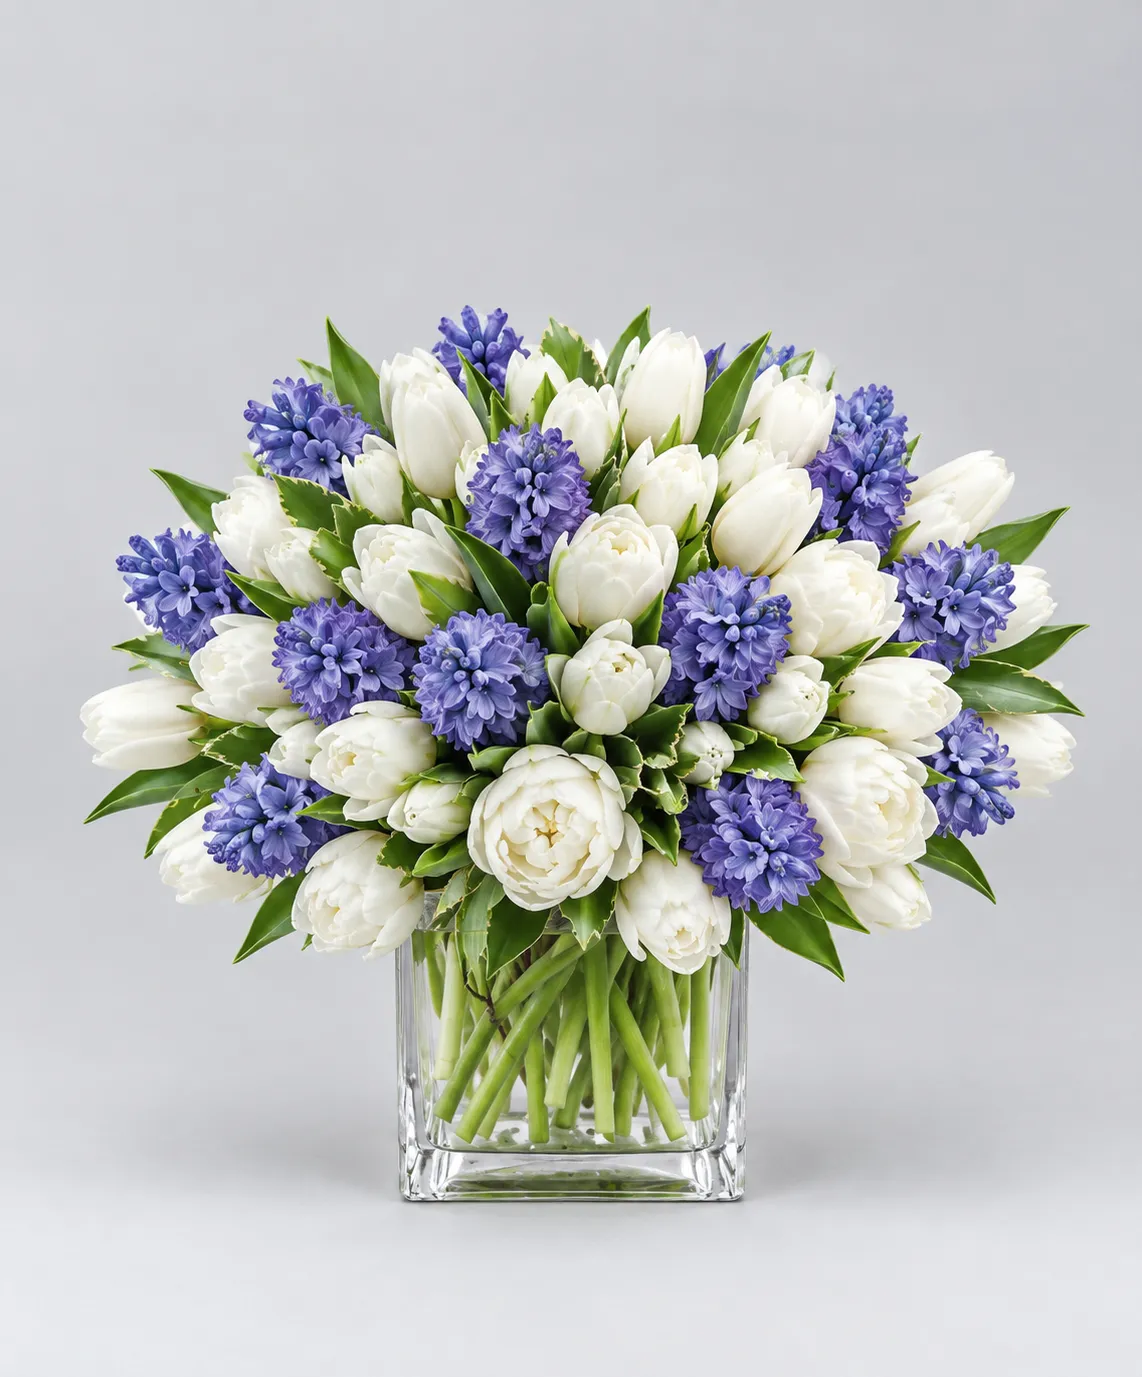
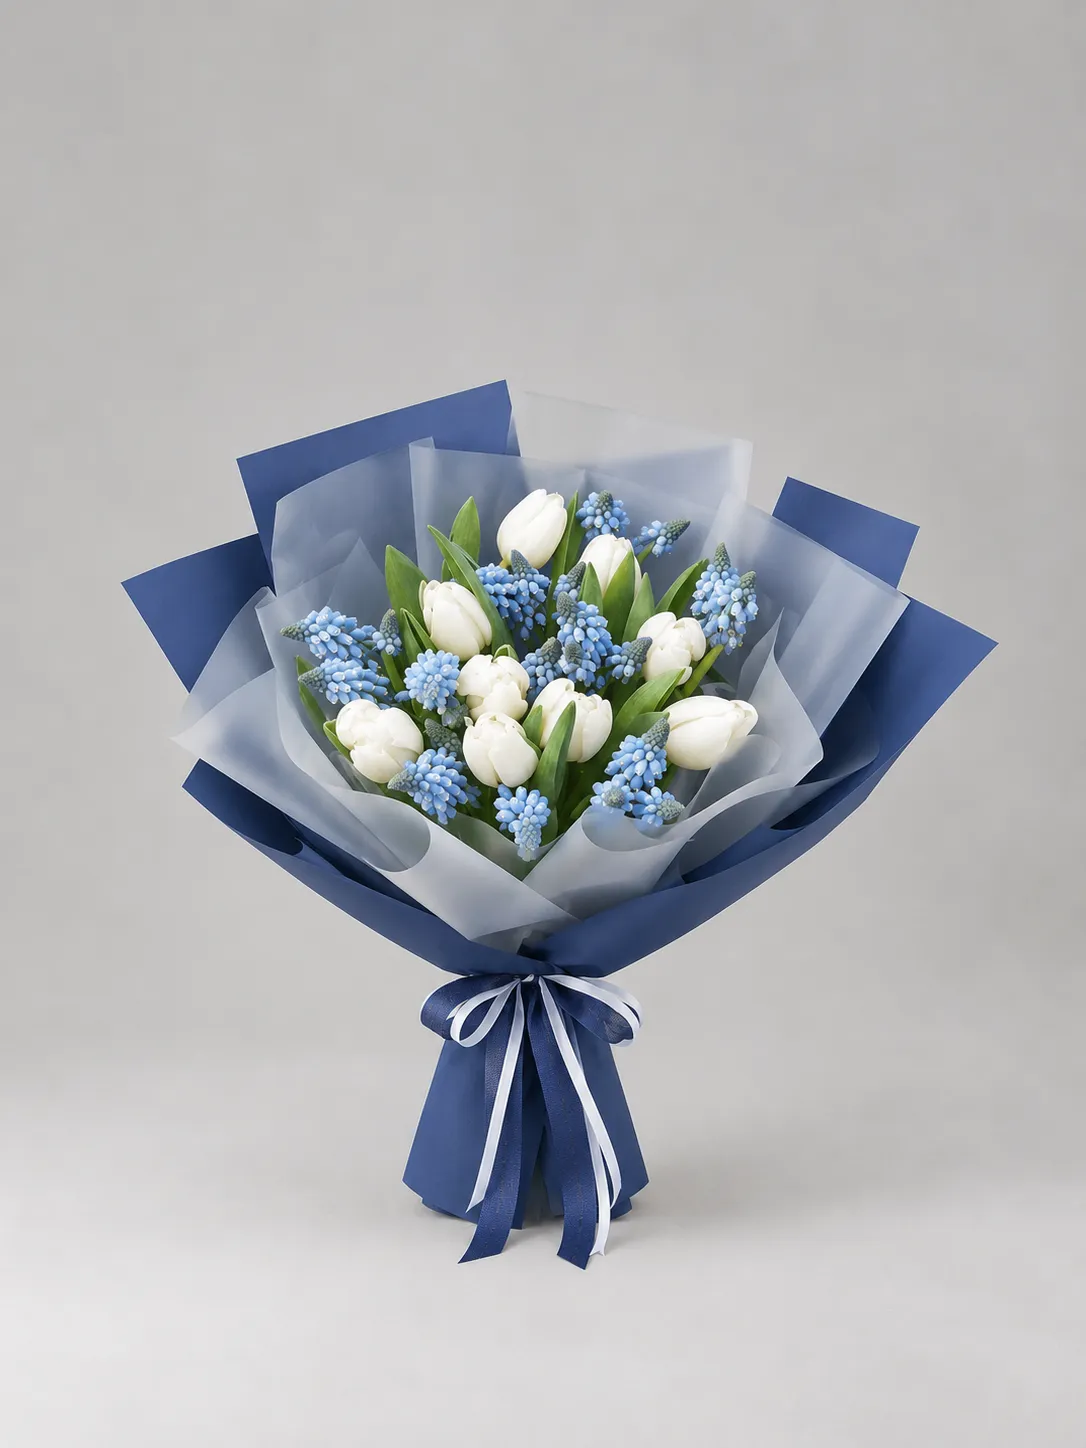
updated OG product images and added new products

diff --git a/js/data/products.js b/js/data/products.js
@@ -256,6 +256,46 @@ export const PRODUCTS = [
     ]
   },
   {
+    id: "blush-spray-roses",
+    slug: "blush-spray-roses",
+    name: "Blush Romance Spray Roses",
+    subtitle: "Pastel Pink Spray Roses, Ruffled Buds & Arching Grass",
+    category: "bouquet",
+    occasion: "Romantic",
+    tag: "Everyday Romance",
+    featured: true,
+    rating: 4.9,
+    reviewCount: 44,
+    images: {
+      primary: "images/blush-spray-roses.webp",
+      gallery: [
+        "images/blush-spray-roses.webp"
+      ]
+    },
+    shortDescription: "A delightful gathering of multi-headed pink spray roses and tender garden buds, wrapped in crisp white paper with a soft pink satin bow.",
+    description: "Delicate, feminine, and utterly charming. Each stem features a branching spray of petite pink roses in shades of rose quartz, blush, and candy pink. Accompanied by fine arching botanical grasses and wrapped in tailored white parchment with a satin ribbon, this bouquet brings effortless sweetness to bedside tables and romantic gestures.",
+    stems: [
+      { name: "Pastel Pink Multi-Bloom Spray Roses", count: 8 },
+      { name: "Tender Rosebud Accents", count: 6 },
+      { name: "Arching Botanical Grass Blades", count: 4 }
+    ],
+    careGuide: [
+      "Trim stems at a 45-degree angle under cool running water before placing in vase.",
+      "Remove any foliage below the waterline to keep water sparkling clean.",
+      "Spray roses are thirsty and long-lasting: top up cool water daily."
+    ],
+    sizes: [
+      { id: "standard", name: "Standard", stems: "14-16 rosebud blooms", price: 54, default: true },
+      { id: "deluxe", name: "Deluxe", stems: "22-24 rosebud blooms", price: 74, default: false },
+      { id: "premium", name: "Premium", stems: "32-34 rosebud blooms", price: 98, default: false }
+    ],
+    vases: [
+      { id: "none", name: "Crisp White Vellum Wrap & Pink Satin Ribbon", price: 0 },
+      { id: "glass", name: "Fluted Clear Glass Vase", price: 14 },
+      { id: "ceramic", name: "Artisan Matte Ceramic Pot", price: 24 }
+    ]
+  },
+  {
     id: "casablanca-lilies",
     slug: "casablanca-lilies",
     name: "Casablanca Imperial Lilies",
@@ -295,6 +335,85 @@ export const PRODUCTS = [
       { id: "none", name: "Beige Kraft Wrap & Silk Ribbon", price: 0 },
       { id: "glass", name: "Fluted Clear Glass Vase", price: 14 },
       { id: "ceramic", name: "Artisan Matte Ceramic Pot", price: 24 }
+    ]
+  },
+  {
+    id: "oceanic-lily-cloud",
+    slug: "oceanic-lily-cloud",
+    name: "Oceanic Lily Cloud",
+    subtitle: "Vibrant Cobalt Lilies, Misty Baby’s Breath & Silver Eucalyptus",
+    category: "luxury",
+    occasion: "Celebrations",
+    tag: "Rare Botanical",
+    featured: true,
+    rating: 5.0,
+    reviewCount: 28,
+    images: {
+      primary: "images/oceanic-lily-cloud.webp",
+      gallery: [
+        "images/oceanic-lily-cloud.webp"
+      ]
+    },
+    shortDescription: "An extraordinary statement bouquet featuring radiant sapphire-tinted lilies nestled in a cloud of delicate baby’s breath and fresh eucalyptus.",
+    description: "Ethereal, dramatic, and captivating. Hand-selected oriental lilies are infused with deep cobalt hues, revealing velvety blue petals that open alongside upright sculpted buds. Encircled by a frothy sea of million-star gypsophila and fragrant blue-grey eucalyptus, this striking design is wrapped in layered architectural white paper and bound with a sapphire silk bow.",
+    stems: [
+      { name: "Grand Sapphire Blue Lilies", count: 6 },
+      { name: "Misty White Million-Star Gypsophila", count: 8 },
+      { name: "Silver Spiral Eucalyptus", count: 4 }
+    ],
+    careGuide: [
+      "Trim stems 1 inch at a 45-degree angle under cool running water before placing in vase.",
+      "Gently remove pollen anthers as buds open to preserve the deep blue petals.",
+      "Lilies and eucalyptus are thirsty: change vase water and rinse stems every 2 days."
+    ],
+    sizes: [
+      { id: "standard", name: "Standard", stems: "14-16 blooms & stems", price: 85, default: true },
+      { id: "deluxe", name: "Deluxe", stems: "20-22 blooms & stems", price: 115, default: false },
+      { id: "premium", name: "Premium", stems: "28-30 blooms & stems", price: 155, default: false }
+    ],
+    vases: [
+      { id: "none", name: "Origami Pleated Cloud Wrap & Sapphire Ribbon", price: 0 },
+      { id: "glass", name: "Fluted Clear Glass Vase", price: 14 },
+      { id: "ceramic", name: "Textured White Ceramic Vase", price: 24 }
+    ]
+  },
+  {
+    id: "cerulean-mirage-roses",
+    slug: "cerulean-mirage-roses",
+    name: "Cerulean Mirage Roses",
+    subtitle: "Reflexed Royal Blue Garden Roses in Sculptural White Wrap",
+    category: "luxury",
+    occasion: "Romantic",
+    tag: "Avant-Garde Chic",
+    featured: true,
+    rating: 5.0,
+    reviewCount: 32,
+    images: {
+      primary: "images/cerulean-mirage-roses.webp",
+      gallery: [
+        "images/cerulean-mirage-roses.webp"
+      ]
+    },
+    shortDescription: "Surreal electric blue garden roses with hand-reflexed petals, presented in a sculptural Korean-style architectural white wrap.",
+    description: "A contemporary masterpiece of floral design. Sourced for their velvety texture, these extraordinary royal blue garden roses are individually reflexed by hand to unveil their full bloom architecture. Framed by sweeping layers of matte white editorial paper and tied with a minimalist cord, this arrangement is an unforgettable tribute to rare beauty and modern design.",
+    stems: [
+      { name: "Hand-Reflexed Royal Blue Garden Roses", count: 8 },
+      { name: "Deep Emerald Foliage Accents", count: 4 }
+    ],
+    careGuide: [
+      "Trim stems at a 45-degree angle under cold running water before placing in vase.",
+      "Reflexed roses absorb water quickly; keep vase filled with fresh, chilled water.",
+      "Display in a cool space away from direct heat to preserve petal firmness and vibrant color."
+    ],
+    sizes: [
+      { id: "standard", name: "Standard", stems: "6-8 reflexed stems", price: 44, default: true },
+      { id: "deluxe", name: "Deluxe", stems: "12-14 reflexed stems", price: 64, default: false },
+      { id: "premium", name: "Premium", stems: "18-20 reflexed stems", price: 88, default: false }
+    ],
+    vases: [
+      { id: "none", name: "Sculptural White Atelier Wrap & Minimalist Cord", price: 0 },
+      { id: "glass", name: "Fluted Smoked Glass Vase", price: 14 },
+      { id: "ceramic", name: "Textured White Ceramic Vase", price: 24 }
     ]
   },
   {
@@ -779,6 +898,46 @@ export const PRODUCTS = [
     ],
     vases: [
       { id: "none", name: "Signature Rose Wrap", price: 0 }
+    ]
+  },
+  {
+    id: "midnight-iris",
+    slug: "midnight-iris",
+    name: "Midnight Iris & Snow Tulips",
+    subtitle: "Vibrant Violet Dutch Irises & Crisp White Tulips",
+    category: "bouquet",
+    occasion: "Celebrations",
+    tag: "Editorial Chic",
+    featured: true,
+    rating: 4.9,
+    reviewCount: 36,
+    images: {
+      primary: "images/midnight-iris.webp",
+      gallery: [
+        "images/midnight-iris.webp"
+      ]
+    },
+    shortDescription: "A high-fashion monochromatic study pairing velvety violet Dutch irises with crystalline white tulips, wrapped in architectural matte obsidian paper.",
+    description: "Striking, bold, and unapologetically modern. Inspired by contemporary East Asian floral artistry, this arrangement sets brilliant violet-blue Dutch irises with golden throats against pure white Dutch tulips. Accented with arching lines of lily grass and framed in structured matte black wrap with tailored grosgrain ribbon, it makes an unforgettable artistic statement.",
+    stems: [
+      { name: "Royal Violet Dutch Irises", count: 8 },
+      { name: "Pure White Dutch Tulips", count: 8 },
+      { name: "Architectural Lily Grass Spines", count: 5 }
+    ],
+    careGuide: [
+      "Cut stems at a 45-degree angle under cool running water before placing in a clean vase.",
+      "Both irises and tulips thrive in cold water; refresh with chilled water every 1 to 2 days.",
+      "Keep in a cool spot away from direct sunlight and heat sources to extend bloom life."
+    ],
+    sizes: [
+      { id: "standard", name: "Standard", stems: "14-16 stems", price: 68, default: true },
+      { id: "deluxe", name: "Deluxe", stems: "22-24 stems", price: 88, default: false },
+      { id: "premium", name: "Premium", stems: "32-34 stems", price: 128, default: false }
+    ],
+    vases: [
+      { id: "none", name: "Matte Obsidian Architectural Wrap", price: 0 },
+      { id: "glass", name: "Fluted Smoked Glass Vase", price: 14 },
+      { id: "ceramic", name: "Textured White Ceramic Vase", price: 24 }
     ]
   },
   {
